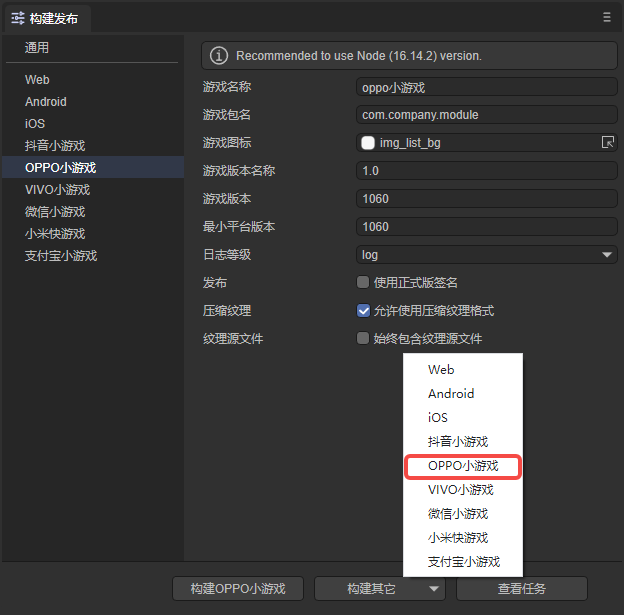
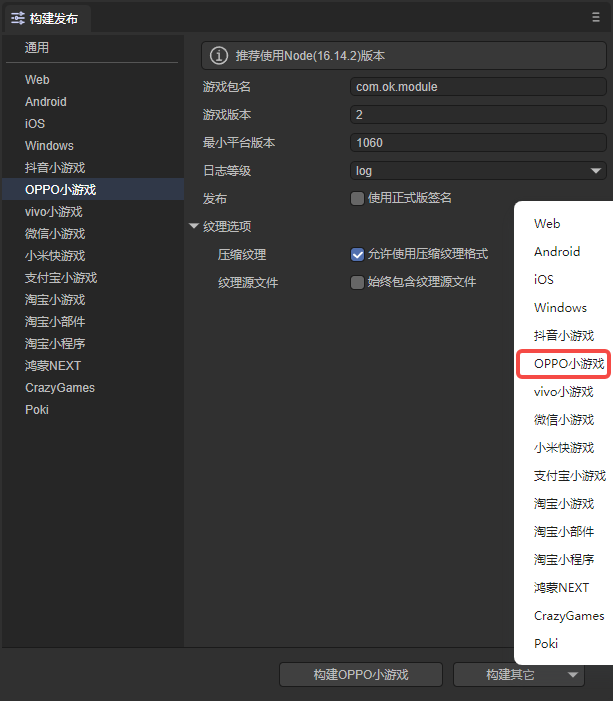
小游戏相关的更新

diff --git a/released/miniGame/OPPO/readme.md b/released/miniGame/OPPO/readme.md
@@ -26,37 +26,27 @@ OPPO官方提供了可视化开发者工具，点击[这里](https://ie-activity
 
 点击“构建OPPO小游戏”，或“构建其它”选项中的“OPPO小游戏”，即可发布项目为OPPO小游戏。
 
-下面我们来介绍一下这些功能参数的填写
+下面我们来介绍一下这些功能参数的填写：
 
-**1、游戏名称**
+> 从LayaAir3.2开始，游戏名称、游戏图标、游戏版本名称（版本）都在通用设置中进行配置。
 
-一般都填写中文汉字，英文也可以。用于应用商店、桌面图标、弹窗等游戏入口处。一个好的名字是游戏能不能吸量的重要元素。OPPO是6个汉字以内就可以
-
-**2、游戏包名**
+**游戏包名**
 
 游戏包名的格式是 `com.company.module` 第一位com不要变，第二位是公司名，第三位是项目名。都要写英文，例如：`com.layabox.demoGame`。
 
-**3、游戏图标**
-
-游戏图标也是重要的游戏入口标识，和游戏名称一样，是非常重要的吸量元素，如果游戏图标设计的好，游戏名称起的好。同样的位置会获得比其它游戏更多的点击率。游戏图标需要提供 `192*192` 的正方形尺寸。
-
-**4、游戏版本名称**
-
-游戏版本名称是真实的版本，一般是用于功能性版本的区别。比如我有个大版本改动。原来是1.0，可以变成2.0，如果只是改改Bug，那1.0完全可以改成1.1。以此类推，我们建议采用浮点数命名。比如“0.1”、“1.3”、“5.0”……
-
-**5、游戏版本**
+**游戏版本**
 
 游戏版本与版本名称用处不同，这里是渠道平台用于区别版本更新。每次提审都要至少递归+1，自己测试无所谓。但是提审这里的值必须要比上次提审的值至少要+1，+N也是可以的，绝对不能等于或者小于上个版本值，建议是提审版本号递归+1。这里需要注意的是，游戏版本必须为正整数。
 
-**6、最小平台版本**
+**最小平台版本**
 
 最小平台版本，按调试器上显示的平台版本号，进行填写即可。
 
-**7、日志等级**
+**日志等级**
 
 七种日志等级，先级从高到底依次为OFF、ERROR、WARN、INFO、LOG、DEBUG、TRACE，可以方便地知道当前程序的运行状态。
 
-**8、是否使用正式版签名**
+**是否使用正式版签名**
 
 如果只是测试版本调试，这里可以不用勾选。正式上线发布前（提版本到平台）必须勾选。
 
@@ -68,7 +58,7 @@ OPPO官方提供了可视化开发者工具，点击[这里](https://ie-activity
 
 如果已经release签名了，将签名文件放到Laya项目 sign/release 文件夹下。
 
-**9、压缩纹理**
+**压缩纹理**
 
 `压缩纹理`：一般需要勾选“允许使用压缩纹理格式”，如果不勾选，则忽略所有图片对于压缩格式的设置。
 

diff --git a/released/miniGame/vivo/readme.md b/released/miniGame/vivo/readme.md
@@ -29,35 +29,25 @@ vivo小游戏中没有可视化开发调试工具，所以只能是在LayaAir ID
 
 下面介绍一下这些功能参数的填写：
 
-**1、游戏名称**
+> 从LayaAir3.2开始，游戏名称、游戏图标、游戏版本名称（版本）都在通用设置中进行配置。
 
-一般都填写中文汉字，英文也可以。用于应用商店、桌面图标、弹窗等游戏入口处。一个好的名字是游戏能不能吸量的重要元素。vivo要求必须是6个汉字以内。
-
-**2、游戏包名**
+**游戏包名**
 
 游戏包名的格式是 `com.company.module` 第一位com不要变，第二位是公司名，第三位是项目名。都要写英文，例如：`com.layabox.demoGame`。
 
-**3、游戏图标**
-
-游戏图标也是重要的游戏入口标识，和游戏名称一样，是非常重要的吸量元素，如果游戏图标设计的好，游戏名称起的好。同样的位置会获得比其它游戏更多的点击率。游戏图标需要提供 `192*192` 的正方形尺寸。
-
-**4、游戏版本名称**
-
-游戏版本名称是真实的版本，一般是用于功能性版本的区别。比如我有个大版本改动。原来是1.0，可以变成2.0，如果只是改改Bug，那1.0完全可以改成1.1。以此类推，我们建议采用浮点数命名。比如“0.1”、“1.3”、“5.0”……
-
-**5、游戏版本**
+**游戏版本**
 
 游戏版本与版本名称用处不同，这里是渠道平台用于区别版本更新。每次提审都要至少递归+1，自己测试无所谓。但是提审这里的值必须要比上次提审的值至少要+1，+N也是可以的，绝对不能等于或者小于上个版本值，建议是提审版本号递归+1。这里需要注意的是，游戏版本必须为正整数。
 
-**6、最小平台号**
+**最小平台版本**
 
 vivo目前在官网支持的最小平台版本号可以点击[这里](https://minigame.vivo.com.cn/documents/#/lesson/game/configuration?id=%e6%94%af%e6%8c%81%e7%9a%84%e6%9c%80%e5%b0%8f%e5%b9%b3%e5%8f%b0%e7%89%88%e6%9c%ac%e5%8f%b7)查看。
 
-**7、日志等级**
+**日志等级**
 
 七种日志等级，先级从高到底依次为OFF、ERROR、WARN、INFO、LOG、DEBUG、TRACE，可以方便地知道当前程序的运行状态。
 
-**8、是否使用正式版签名**
+**是否使用正式版签名**
 
 如果只是测试版本调试，这里可以不用勾选。正式上线发布前（提版本到平台）必须勾选。
 
@@ -69,7 +59,7 @@ vivo目前在官网支持的最小平台版本号可以点击[这里](https://mi
 
 如果已经release签名了，将签名文件放到Laya项目 sign/release 文件夹下。
 
-**9.压缩纹理**
+**压缩纹理**
 
 `压缩纹理`：一般需要勾选“允许使用压缩纹理格式”，如果不勾选，则忽略所有图片对于压缩格式的设置。
 

diff --git a/released/miniGame/xiaomi/readme.md b/released/miniGame/xiaomi/readme.md
@@ -28,35 +28,25 @@
 
 下面我们来介绍一下这些功能参数的填写：
 
-**1、游戏名称**
+> 从LayaAir3.2开始，游戏名称、游戏图标、游戏版本名称（版本）都在通用设置中进行配置。
 
-一般都填写中文汉字，英文也可以。用于应用商店、桌面图标、弹窗等游戏入口处。一个好的名字是游戏能不能吸量的重要元素。我们的建议是都不要超过6个汉字，游戏名太长没什么好处。
-
-**2、游戏包名**
+**游戏包名**
 
 游戏包名的格式是 `com.company.module` 第一位com不要变，第二位是公司名，第三位是项目名。都要写英文，例如：`com.layabox.demoGame`。
 
-**3、游戏图标**
-
-游戏图标也是重要的游戏入口标识，和游戏名称一样，是非常重要的吸量元素，如果游戏图标设计的好，游戏名称起的好。同样的位置会获得比其它游戏更多的点击率。游戏图标需要提供 `192*192` 的正方形尺寸。
-
-**4、游戏版本名称**
-
-游戏版本名称是真实的版本，一般是用于功能性版本的区别。比如我有个大版本改动。原来是1.0，可以变成2.0，如果只是改改Bug，那1.0完全可以改成1.1。以此类推，我们建议采用浮点数命名。比如“0.1”、“1.3”、“5.0”……
-
-**5、游戏版本**
+**游戏版本**
 
 游戏版本与版本名称用处不同，这里是渠道平台用于区别版本更新。每次提审都要至少递归+1，自己测试无所谓。但是提审这里的值必须要比上次提审的值至少要+1，+N也是可以的，绝对不能等于或者小于上个版本值，建议是提审版本号递归+1。这里需要注意的是，游戏版本必须为正整数。
 
-**6、最小平台号**
+**最小平台版本**
 
 最小平台号，按调试器上显示的平台版本号，进行填写即可。
 
-**7、日志等级**
+**日志等级**
 
 七种日志等级，先级从高到底依次为OFF、ERROR、WARN、INFO、DEBUG、TRACE、ALL，可以方便地知道当前程序的运行状态。
 
-**8、是否使用正式版签名**
+**是否使用正式版签名**
 
 如果只是测试版本调试，这里可以不用勾选。正式上线发布前（提版本到平台）必须勾选。
 
@@ -68,7 +58,7 @@
 
 如果已经release签名了，将签名文件放到Laya项目 sign/release 文件夹下。
 
-**9、压缩纹理**
+**压缩纹理**
 
 `压缩纹理`：一般需要勾选“允许使用压缩纹理格式”，如果不勾选，则忽略所有图片对于压缩格式的设置。
 

diff --git a/released/miniGame/readme.md b/released/miniGame/readme.md
@@ -72,3 +72,5 @@ LayaAir 3.0当前适配了以下平台：
 
 - #### [支付宝小游戏](./alipaygame/readme.md)
 
+- #### [淘宝小游戏](./tbgame/readme.md)
+
